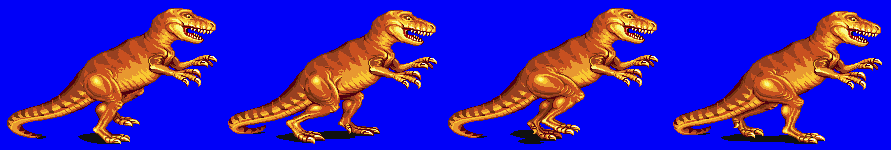
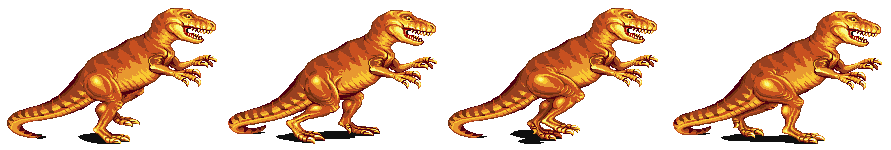
Animated dinosaurs...
They may all be a digusting orange, but they at least move.

diff --git a/Dino_Hunter.py b/Dino_Hunter.py
@@ -176,7 +176,8 @@ class ControlManager(object):
                 if pe_collision[0].health <= 0:
                     pe_collision[0].kill()
 
-                if self.player.lives <= 0:  # TODO: Game over screen...
+                # TODO: Game over screen?
+                if self.player.lives <= 0:
                     counter = 500
                     while counter > 0:
                         GO_txt = font.render("GAME OVER!", 1, (0, 255, 0))
@@ -191,6 +192,7 @@ class ControlManager(object):
                     self.player.kill()
                     self.run = False
 
+            # Projectile-enemy collision detection
             if self.bullets:
                 for bullet in self.bullets:
                     # bullet collision detection
@@ -219,36 +221,43 @@ class ControlManager(object):
             self.player.x = self.player.x % self.screenWidth
 
             # Update camera
-            self.player.animate(self.dt)
             self.camera.update(self.player)
 
+            # Advance to next level
             if not self.enemies:
-                # TODO: Display success and move to next level
                 counter = 100
                 while counter > 0:
                     # Draw Level Complete
                     font = pygame.font.SysFont('comicsans', 100, True)
-                    level_txt = font.render("LEVEL COMPLETE! " + str(counter), 1, (0, 255, 0))
+                    level_txt = font.render("LEVEL COMPLETE! " + str(counter//10), 1, (0, 255, 0))
                     self.screen.blit(level_txt, (375, 300))
                     counter -= 1
-                    print("counter =",counter)
+                    print("counter =", counter)
+                    self.player.rect.y = self.screenHeight / 2
+                    self.player.rect.x = self.screenWidth / 2
                     pygame.display.update()
                     self.redrawGameWindow()
-                self.player.x = 100
-                self.player.y = 100
+
+                # Reset player position
+                self.player.rect.y = self.screenHeight / 2
+                self.player.rect.x = self.screenWidth / 2
+
+                # Increase gun strength
                 self.player.gun_str += 1
+
+                # Spawn new enemies
                 self.create_enemies()
                 for e in self.enemies:
                     self.world.add(e)
 
 
-            # Insert music here
+            # TODO: Insert music here
 
             self.redrawGameWindow()
 
             # Check to see if player is out of lives?
             if self.keyState[pygame.K_ESCAPE]:
-                self.run = False #TODO: Game over screen?
+                self.run = False
 
     def parse_keyState(self):
         '''Parses pressed keys'''
@@ -291,7 +300,7 @@ class ControlManager(object):
         # Projectile spawn
         if self.player.firing:
             # Number of supported bullets on screen
-            if len(self.bullets) < 50 + self.current_level:
+            if len(self.bullets) < 5 + self.current_level:
                 # Create a bullet instance
                 bullet = Projectile(round(self.screenWidth // 2),
                                             round(self.player.rect.center[1] + self.player.height // 4), 2,
@@ -306,6 +315,8 @@ class ControlManager(object):
 
         # Move select entities and draw everything to screen
         for entity in self.world:
+            entity.animate(self.dt)
+
             if not isinstance(entity, Player):
                 entity.move()
             if not isinstance(entity, Projectile):
@@ -476,61 +487,116 @@ class Player(Entity):
 
 class tRex(Entity):
     def __init__(self, screenWidth, screenHeight):
-        super().__init__(health=50, x=random.randrange(0, screenWidth - 121), y=random.randrange(screenHeight - 60, screenHeight - 40), width=30, height=30,
+        super().__init__(health=50, x=random.randrange(0, screenWidth - 121), y=random.randrange(screenHeight - 300, screenHeight - 200), width=222, height=150,
                          vel=random.uniform(0.5, 1.0))
         self.rgb = (255, 0, 0)
         self.end = screenWidth - (self.width * random.randrange(2, 4))
         self.path = [0 + (self.width * random.randrange(2, 4)), self.end]
-        self.rect = pygame.Rect(self.x, self.y, self.width, self.height)
+
+        # Animation #####################################################################
+        # Load player sprite sheet
+        self.sheet = Utilities.SpriteSheet(filename=os.path.join("images", "trex-sheet.png"), rows=1,
+                                           columns=4)
+        self.facing = False
+        self.timer = 0
+        self.frame_duration = 175
+        self.frames = self.sheet.get_images()
+
+        for frame in self.frames:
+            frame.set_colorkey((255, 255, 255))
+
+        self.frameCycle = cycle(self.frames)
+        self.frame = next(self.frameCycle)
+        self.rect = self.frame.get_rect()
+
+    def animate(self, dt):
+        self.timer += dt
+        while self.timer >= self.frame_duration:
+            self.timer -= self.frame_duration
+            self.frame = next(self.frameCycle)
 
     def draw(self, win, R):
-        pygame.draw.rect(win, self.rgb, self.rect)
-        pygame.draw.rect(win, (255, 0, 0), (self.rect.x - 9, self.y - 15, 50, 10))
-        pygame.draw.rect(win, (0, 255, 0), (self.rect.x - 9, self.y - 15, 50 - ((50 / 50) * (50 - self.health)), 10))
+        if self.facing:
+            win.blit(self.frame, R)
+        else:
+            win.blit(pygame.transform.flip(self.frame, True, False), R)
+        # Health bar
+        pygame.draw.rect(win, (255, 0, 0), (self.rect.center[0], self.y - 15, 50, 10))
+        pygame.draw.rect(win, (0, 255, 0), (self.rect.center[0], self.y - 15, 50 - ((50 / 50) * (50 - self.health)), 10))
 
     def move(self):
         if self.vel > 0:
             if self.x + self.vel < self.path[1]:
+                self.facing = True
                 self.x += self.vel
             else:
                 self.vel = self.vel * -1
         else:
             if self.x - self.vel > self.path[0]:
+                self.facing = False
                 self.x += self.vel
             else:
                 self.vel = self.vel * -1
 
-        self.rect = pygame.Rect(self.x, self.y, 30, 30)
+        self.rect = pygame.Rect(self.x, self.y, 150, 218)
 
 
 class raptor(Entity):
     def __init__(self, screenWidth, screenHeight):
-        super().__init__(health=15, x=random.randrange(0, screenWidth - 61), y=random.randrange(screenHeight - 60, screenHeight - 40), width=15, height=15,
+        super().__init__(health=15, x=random.randrange(0, screenWidth - 61), y=random.randrange(screenHeight - 200, screenHeight - 100), width=15, height=15,
                          vel=random.uniform(3, 5))
 
         self.rgb = (255, 165, 0)
         self.end = screenWidth - (self.width * random.randrange(2, 4))
         self.path = [0 + (self.width * random.randrange(2, 4)), self.end]
-        self.rect = pygame.Rect(self.x, self.y, self.width, self.height)
+
+        # Animation #####################################################################
+        # Load player sprite sheet
+        self.sheet = Utilities.SpriteSheet(filename=os.path.join("images", "raptor-sheet.png"), rows=1,
+                                           columns=6)
+        self.facing = False
+        self.timer = 0
+        self.frame_duration = 70
+        self.frames = self.sheet.get_images()
+
+        for frame in self.frames:
+            frame.set_colorkey((255, 255, 255))
+
+        self.frameCycle = cycle(self.frames)
+        self.frame = next(self.frameCycle)
+        self.rect = self.frame.get_rect()
+
+    def animate(self, dt):
+        self.timer += dt
+        while self.timer >= self.frame_duration:
+            self.timer -= self.frame_duration
+            self.frame = next(self.frameCycle)
 
     def draw(self, win, R):
-        pygame.draw.rect(win, self.rgb, R)
-        pygame.draw.rect(win, (255, 0, 0), (self.rect.x - 15, self.rect.y - 15, 50, 10))
-        pygame.draw.rect(win, (0, 255, 0), (self.rect.x - 15, self.rect.y - 15, 50 - ((50 / 15) * (15 - self.health)), 10))
+        if self.facing:
+            win.blit(self.frame, R)
+        else:
+            win.blit(pygame.transform.flip(self.frame, True, False), R)
+
+        # Health bar
+        pygame.draw.rect(win, (255, 0, 0), (self.rect.center[0], self.rect.y - 15, 50, 10))
+        pygame.draw.rect(win, (0, 255, 0), (self.rect.center[0], self.rect.y - 15, 50 - ((50 / 15) * (15 - self.health)), 10))
 
     def move(self):
         if self.vel > 0:
             if self.x + self.vel < self.path[1]:
+                self.facing = True
                 self.x += self.vel
             else:
                 self.vel = self.vel * -1
         else:
             if self.x - self.vel > self.path[0]:
+                self.facing = False
                 self.x += self.vel
             else:
                 self.vel = self.vel * -1
 
-        self.rect = pygame.Rect(self.x, self.y, 15, 15)
+        self.rect = pygame.Rect(self.x, self.y, 90, 150)
 
 
 class ptero(Entity):
@@ -549,10 +615,35 @@ class ptero(Entity):
         self.y_end = screenHeight - (self.height * random.randrange(2, 4))
         self.y_path = [0 + (self.height * random.randrange(2, 4)), self.y_end]
 
-        self.rect = pygame.Rect(self.x, self.y, self.width, self.height)
+        # Animation #####################################################################
+        # Load player sprite sheet
+        self.sheet = Utilities.SpriteSheet(filename=os.path.join("images", "ptero-sheet.png"), rows=1,
+                                           columns=6)
+        self.facing = False
+        self.timer = 0
+        self.frame_duration = 175
+        self.frames = self.sheet.get_images()
 
-    def draw(self, win, r):
-        pygame.draw.rect(win, self.rgb, self.rect)
+        for frame in self.frames:
+            frame.set_colorkey((255, 255, 255))
+
+        self.frameCycle = cycle(self.frames)
+        self.frame = next(self.frameCycle)
+        self.rect = self.frame.get_rect()
+
+    def animate(self, dt):
+        self.timer += dt
+        while self.timer >= self.frame_duration:
+            self.timer -= self.frame_duration
+            self.frame = next(self.frameCycle)
+
+    def draw(self, win, R):
+        if self.facing:
+            win.blit(self.frame, R)
+        else:
+            win.blit(pygame.transform.flip(self.frame, True, False), R)
+
+        # Health bar
         pygame.draw.rect(win, (255, 0, 0), (self.rect.x - 15, self.y - 15, 50, 10))
         pygame.draw.rect(win, (0, 255, 0), (self.rect.x - 15, self.y - 15, 50 - ((50/10) * (10 - self.health)), 10))
 
@@ -560,11 +651,13 @@ class ptero(Entity):
         # x-based movements
         if self.vel > 0:
             if self.x + self.vel < self.path[1]:
+                self.facing = True
                 self.x += self.vel
             else:
                 self.vel = self.vel * -1
         else:
             if self.x - self.vel > self.path[0]:
+                self.facing = False
                 self.x += self.vel
             else:
                 self.vel = self.vel * -1
@@ -581,7 +674,8 @@ class ptero(Entity):
             else:
                 self.y_vel = self.y_vel * -1
 
-        self.rect = pygame.Rect(self.x, self.y, 15, 15)
+        # Not including wings in hit box (110, 170)
+        self.rect = pygame.Rect(self.x, self.y, 110, 170)
 
 
 class Projectile(Entity):
@@ -614,6 +708,9 @@ class Projectile(Entity):
             else:
                 self.v = pygame.math.Vector2(-self.vel, 0).rotate(0) * 9
                 self.pos = pygame.math.Vector2(self.rect.x - 30, self.rect.y + 12) + self.offset
+
+    def animate(self, dt):
+        return NotImplemented
 
     def draw(self, surface, target):
         pygame.draw.circle(surface, self.color, self.rect.center, self.radius)
